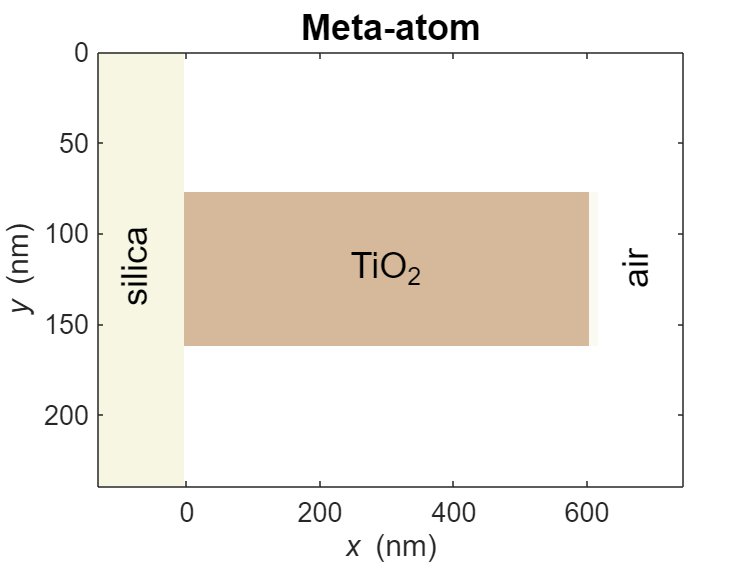
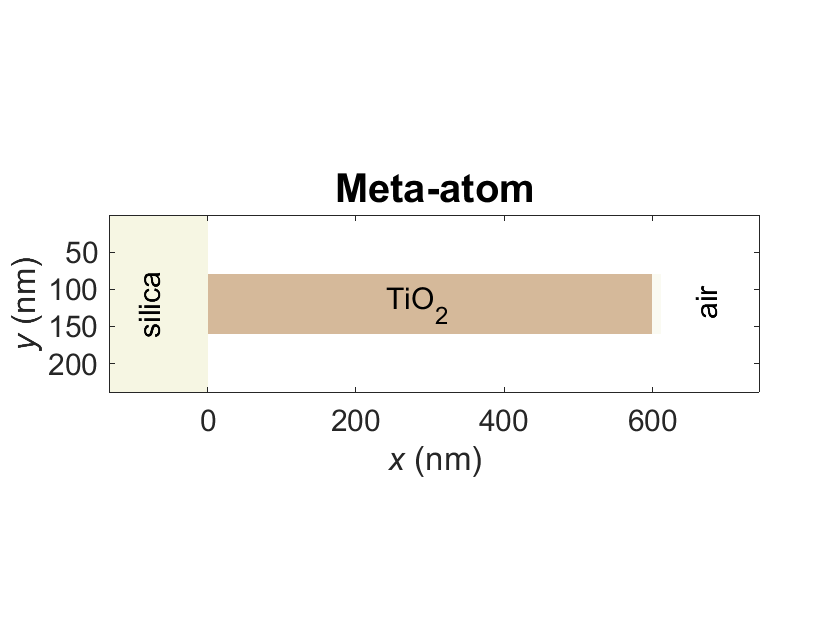
Update meta_atom_structure.png

diff --git a/examples/2d_meta_atom/meta_atom.m b/examples/2d_meta_atom/meta_atom.m
@@ -49,8 +49,8 @@ epsilon_meta_atom = build_epsilon_meta_atom(dx, n_air, n_TiO2, ridge_width, ridg
 n_extra_for_plot = 10; % Extra pixels on side for plotting
 
 % For plotting the space position
-y = [0 ny*dx];
-x = [-n_extra_for_plot*dx (nx+n_extra_for_plot)*dx]; 
+x = (-n_extra_for_plot+0.5:nx+n_extra_for_plot)*dx;
+y = (0.5:ny)*dx;
 
 figure
 imagesc(x, y, [syst.epsilon_L*ones(ny,n_extra_for_plot), epsilon_meta_atom, 1*syst.epsilon_R*ones(ny,n_extra_for_plot)])
@@ -59,11 +59,10 @@ xlabel('{\itx} (nm)');
 ylabel('{\ity} (nm)');
 set(gca, 'fontsize', 15, 'FontName','Arial')
 caxis([1 12])
-xlim([x(1), x(2)])
-ylim([y(1), y(2)])
-text(670,130,'air','FontSize',20,'Rotation',90)
-text(240,120,'TiO_2','FontSize',20)
-text(-80,140,'silica','FontSize',20,'Rotation',90)
+text(670,140,'air','FontSize', 15,'Rotation',90)
+text(240,120,'TiO_2','FontSize', 15)
+text(-80,165,'silica','FontSize', 15,'Rotation',90)
+axis image
 title('Meta-atom','FontSize',20)
 
 %% Transmission coefficient of meta-atom at normal incidence
@@ -154,7 +153,7 @@ end
 
 % Plot the phase of the transmission coefficient relative to the first width
 figure
-imagesc(ridge_width_list,theta_in_list, mod(angle(t_list)-angle(t_list(:,1)), 2*pi))
+imagesc(ridge_width_list, theta_in_list, mod(angle(t_list)-angle(t_list(:,1)), 2*pi))
 caxis([0, 2*pi]);
 xlabel('Pillar width (nm)')
 ylabel('\theta_{in} (degree)')
@@ -166,7 +165,7 @@ hcb=colorbar; hcb.Ticks = [0 pi 2*pi]; hcb.TickLabels = {'0','\pi','2\pi'};
 
 % Plot the amplitude of transmission coefficient.
 figure
-imagesc(ridge_width_list,theta_in_list, abs(t_list))
+imagesc(ridge_width_list, theta_in_list, abs(t_list))
 caxis([0, 1]);
 xlabel('Pillar width (nm)')
 ylabel('\theta_{in} (degree)')

diff --git a/examples/2d_meta_atom/README.md b/examples/2d_meta_atom/README.md
@@ -63,21 +63,20 @@ epsilon_meta_atom = build_epsilon_meta_atom(dx, n_air, n_TiO2, ridge_width, ridg
 n_extra_for_plot = 10; % Extra pixels on side for plotting
 
 % For plotting the space position
-y = [0 ny*dx];
-x = [-n_extra_for_plot*dx (nx+n_extra_for_plot)*dx]; 
+x = (-n_extra_for_plot+0.5:nx+n_extra_for_plot)*dx;
+y = (0.5:ny)*dx;
 
-clf
+figure
 imagesc(x, y, [syst.epsilon_L*ones(ny,n_extra_for_plot), epsilon_meta_atom, 1*syst.epsilon_R*ones(ny,n_extra_for_plot)])
 colormap(flipud(pink));
 xlabel('{\itx} (nm)');
 ylabel('{\ity} (nm)');
 set(gca, 'fontsize', 15, 'FontName','Arial')
 caxis([1 12])
-xlim([x(1), x(2)])
-ylim([y(1), y(2)])
-text(670,130,'air','FontSize',20,'Rotation',90)
-text(240,120,'TiO_2','FontSize',20)
-text(-80,140,'silica','FontSize',20,'Rotation',90)
+text(670,140,'air','FontSize', 15,'Rotation',90)
+text(240,120,'TiO_2','FontSize', 15)
+text(-80,165,'silica','FontSize', 15,'Rotation',90)
+axis image
 title('Meta-atom','FontSize',20)
 ```
 
@@ -187,7 +186,7 @@ end
 
 % Plot the phase of the transmission coefficient relative to the first width
 clf
-imagesc(ridge_width_list,theta_in_list, mod(angle(t_list)-angle(t_list(:,1)), 2*pi))
+imagesc(ridge_width_list, theta_in_list, mod(angle(t_list)-angle(t_list(:,1)), 2*pi))
 caxis([0, 2*pi]);
 xlabel('Pillar width (nm)')
 ylabel('\theta_{in} (degree)')
@@ -204,7 +203,7 @@ hcb=colorbar; hcb.Ticks = [0 pi 2*pi]; hcb.TickLabels = {'0','\pi','2\pi'};
 ```matlab
 % Plot the amplitude of transmission coefficient.
 clf
-imagesc(ridge_width_list,theta_in_list, abs(t_list))
+imagesc(ridge_width_list, theta_in_list, abs(t_list))
 caxis([0, 1]);
 xlabel('Pillar width (nm)')
 ylabel('\theta_{in} (degree)')
